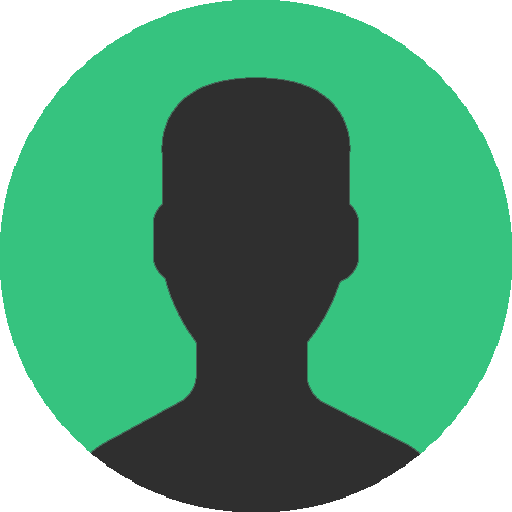
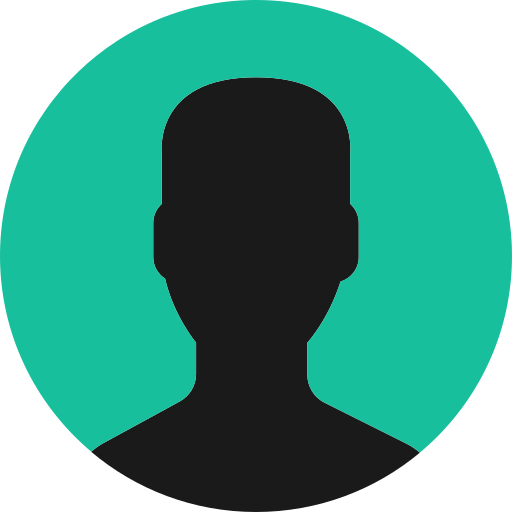
edit profile picture

diff --git a/index.html b/index.html
@@ -76,17 +76,17 @@
               </div>
               <div class="panel-body">
                 <div class="group-item">
-                  <img src="img/group.png" height="50" style="width: 50px" alt="">
+                  <img src="img/userteal.png" height="50" style="width: 50px" alt="">
                   <p><a href="#" class="">Generic person 1</a></p>
                 </div>
                 <div class="clearfix"></div>
                 <div class="group-item">
-                  <img src="img/group.png" height="50" style="width: 50px" alt="">
+                  <img src="img/userteal.png" height="50" style="width: 50px" alt="">
                   <p><a href="#" class="">Generic person 2</a></p>
                 </div>
                 <div class="clearfix"></div>
                 <div class="group-item">
-                  <img src="img/group.png" height="50" style="width: 50px" alt="">
+                  <img src="img/userteal.png" height="50" style="width: 50px" alt="">
                   <p><a href="#" class="">Generic person 3</a></p>
                 </div>
                 <div class="clearfix"></div>
@@ -102,7 +102,7 @@
               <div class="panel-body">
                 <form>
                   <div class="form-group">
-                    <textarea class="form-control" placeholder="Write on the wall"></textarea>
+                    <textarea class="form-control" placeholder="Publish your portfolio analysis"></textarea>
                   </div>
                   <button type="submit" class="btn btn-default btn btn-primary">Submit</button>
                 </form>
@@ -161,19 +161,19 @@
               </div>
               <div class="panel-body">
                 <div class="group-item">
-                  <img src="img/group.png" height="50" style="width: 50px" alt="">
+                  <img src="img/userteal.png" height="50" style="width: 50px" alt="">
                   <p><a href="#" class="">Generic person 1</a></p>
                   <img src="img/up-green-arrow.svg" height="20" style="width: 20px" alt="">
                 </div>
                 <div class="clearfix"></div>
                 <div class="group-item">
-                  <img src="img/group.png" height="50" style="width: 50px" alt="">
+                  <img src="img/userteal.png" height="50" style="width: 50px" alt="">
                   <p><a href="#" class="">Generic person 2</a></p>
                   <img src="img/down-red-arrow.png" height="20" style="width: 20px" alt="">
                 </div>
                 <div class="clearfix"></div>
                 <div class="group-item">
-                  <img src="img/group.png" height="50" style="width: 50px" alt="">
+                  <img src="img/userteal.png" height="50" style="width: 50px" alt="">
                   <p><a href="#" class="">Generic person 3</a></p>
                   <img src="img/up-green-arrow.svg" height="20" style="width: 20px" alt="">
                 </div>
@@ -187,17 +187,17 @@
               </div>
               <div class="panel-body">
                 <div class="group-item">
-                  <img src="img/group.png" height="50" style="width: 50px" alt="">
+                  <img src="img/userteal.png" height="50" style="width: 50px" alt="">
                   <p><a href="#" class="">Generic person 1</a></p>
                 </div>
                 <div class="clearfix"></div>
                 <div class="group-item">
-                  <img src="img/group.png" height="50" style="width: 50px" alt="">
+                  <img src="img/userteal.png" height="50" style="width: 50px" alt="">
                   <p><a href="#" class="">Generic person 2</a></p>
                 </div>
                 <div class="clearfix"></div>
                 <div class="group-item">
-                  <img src="img/group.png" height="50" style="width: 50px" alt="">
+                  <img src="img/userteal.png" height="50" style="width: 50px" alt="">
                   <p><a href="#" class="">Generic person 3</a></p>
                 </div>
                 <div class="clearfix"></div>
